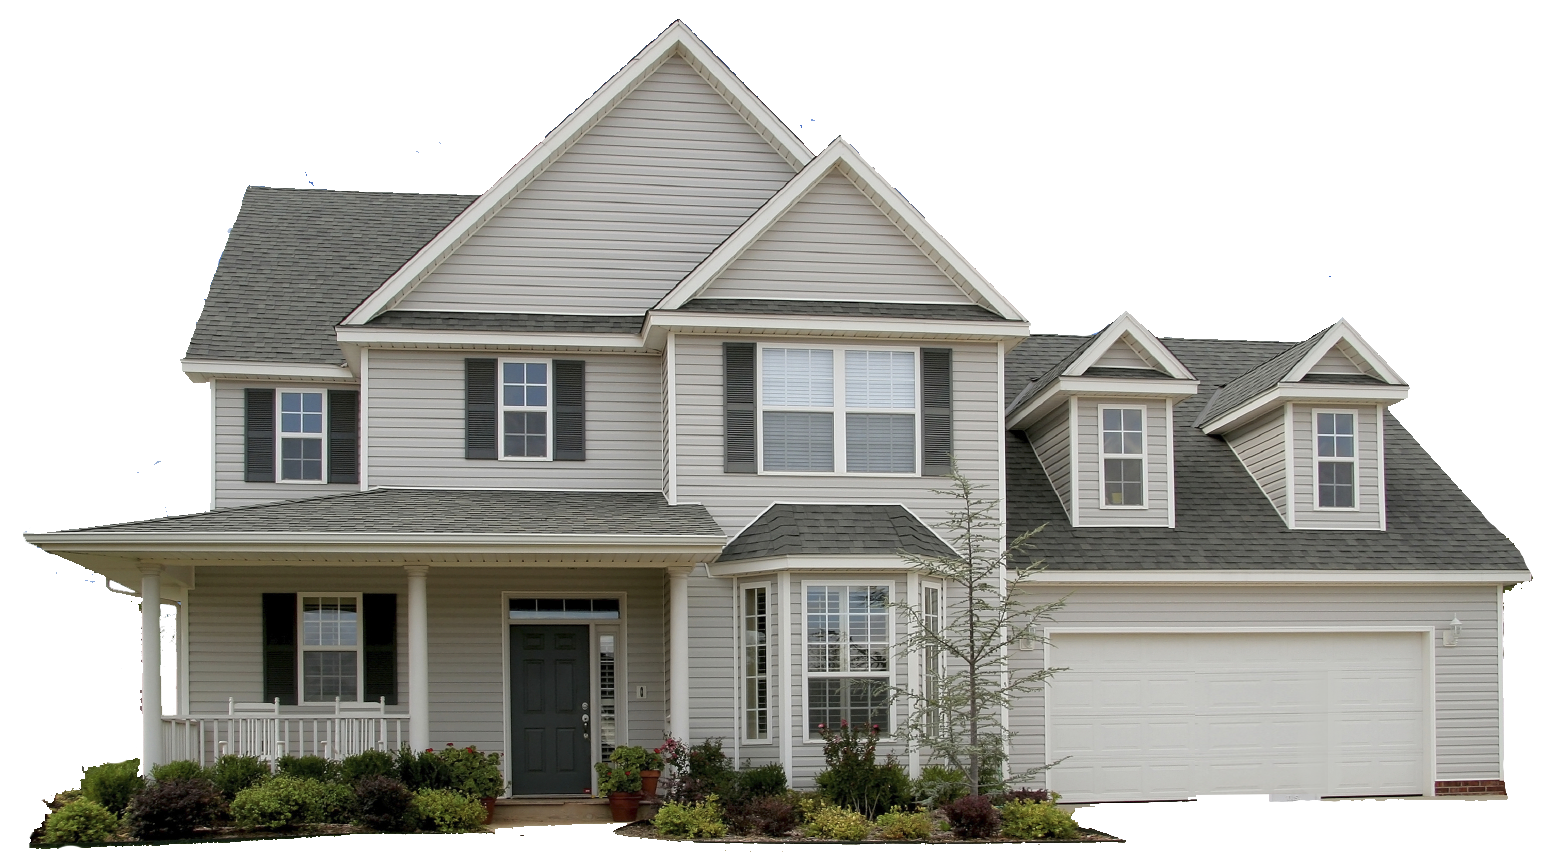
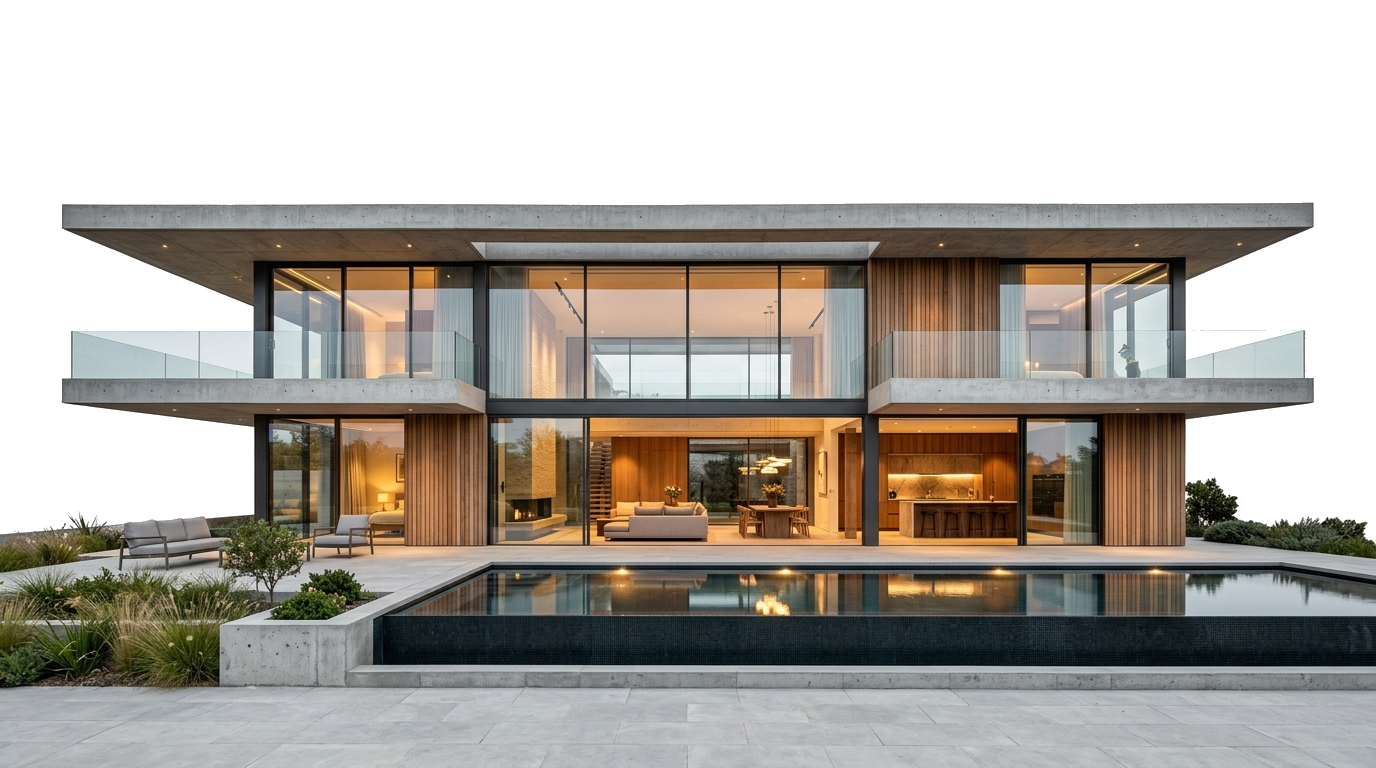
fix(landing): replace building with modernist luxury villa, add scroll opacity fade, and elevate statement text z-index

diff --git a/frontend/src/App.tsx b/frontend/src/App.tsx
@@ -209,7 +209,7 @@ export const App: React.FC = () => {
     const wrapper = houseWrapperRef.current;
 
     if (progress <= 0) {
-      // Reset to resting (bottom-centered, scale 1)
+      // Reset to resting (bottom-centered, scale 1, full opacity)
       wrapper.style.top = '';
       wrapper.style.bottom = '0px';
       wrapper.style.left = '50%';
@@ -217,6 +217,7 @@ export const App: React.FC = () => {
       wrapper.style.transformOrigin = '';
       wrapper.style.width = '100%';
       wrapper.style.minWidth = '1400px';
+      wrapper.style.opacity = '1';
       return;
     }
 
@@ -224,8 +225,8 @@ export const App: React.FC = () => {
     const smoothstep = (x: number) => x * x * (3 - 2 * x);
     const t = smoothstep(smoothstep(progress));
 
-    const imgNaturalW = houseImgRef.current.naturalWidth || 1554;
-    const imgNaturalH = houseImgRef.current.naturalHeight || 859;
+    const imgNaturalW = houseImgRef.current.naturalWidth || 1376;
+    const imgNaturalH = houseImgRef.current.naturalHeight || 768;
     const aspect = imgNaturalW / imgNaturalH;
     const imgH = baseW / aspect;
 
@@ -241,6 +242,15 @@ export const App: React.FC = () => {
     const currentY = startY + (finalY - startY) * t;
     const currentScale = 1 + (finalScale - 1) * t;
 
+    // Smooth opacity fade: stays fully visible in hero, fades smoothly as it moves into the dark statement
+    // so it never covers the text and stats
+    const fadeStart = 0.12;
+    const fadeEnd = 0.55;
+    let opacity = 1;
+    if (progress > fadeStart) {
+      opacity = Math.max(0, 1 - (progress - fadeStart) / (fadeEnd - fadeStart));
+    }
+
     wrapper.style.bottom = 'auto';
     wrapper.style.top = '0px';
     wrapper.style.left = '0px';
@@ -248,6 +258,7 @@ export const App: React.FC = () => {
     wrapper.style.minWidth = '1400px';
     wrapper.style.transform = `translate(${currentX}px, ${currentY}px) scale(${currentScale})`;
     wrapper.style.transformOrigin = 'top left';
+    wrapper.style.opacity = `${opacity}`;
   }, [liftDone]);
 
   useEffect(() => {
@@ -774,7 +785,7 @@ export const App: React.FC = () => {
           style={{ backgroundColor: '#1a1a1a' }}
         >
           <div
-            className="s2-content flex flex-col px-6 md:px-10 lg:px-16"
+            className="s2-content relative z-30 flex flex-col px-6 md:px-10 lg:px-16 pointer-events-auto"
             style={{
               paddingTop: 'clamp(30px, 4vw, 60px)',
               paddingBottom: 'clamp(60px, 8vw, 120px)',
